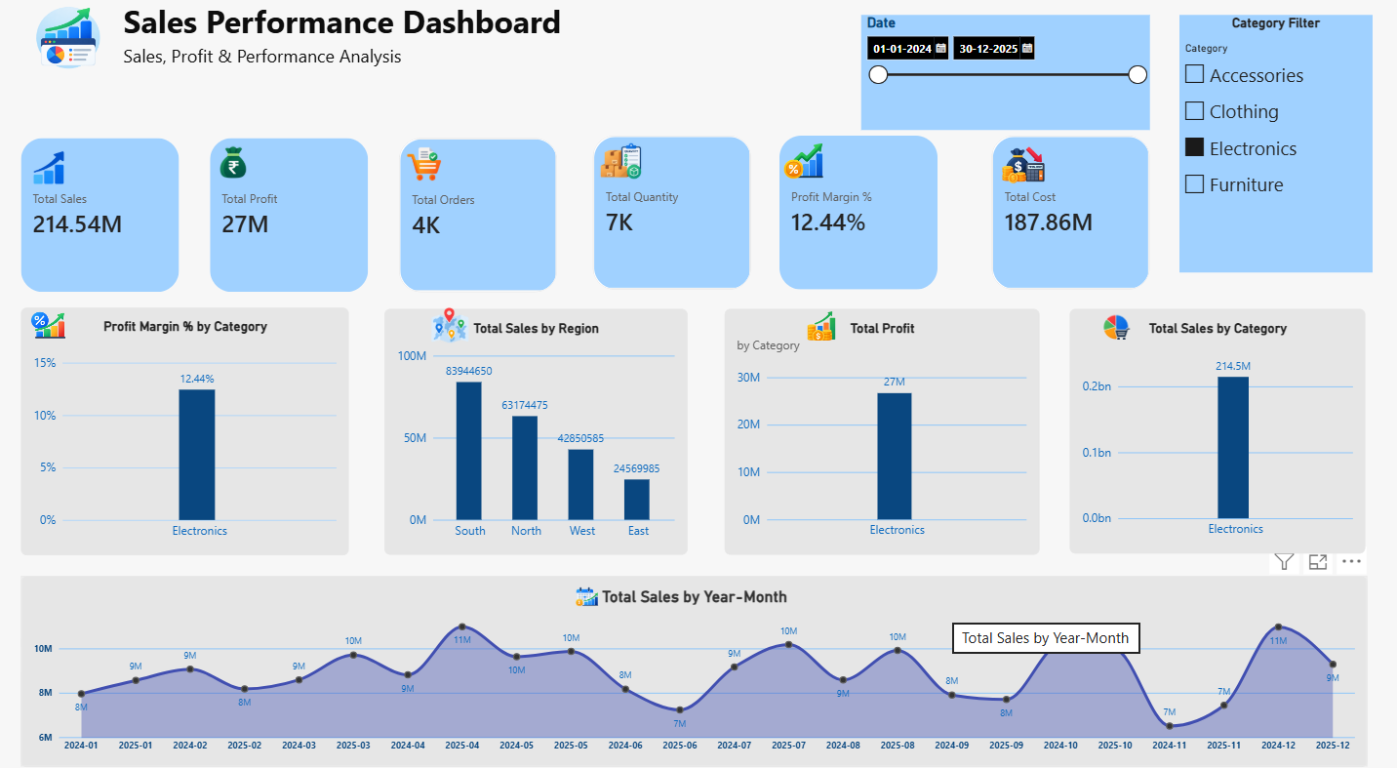
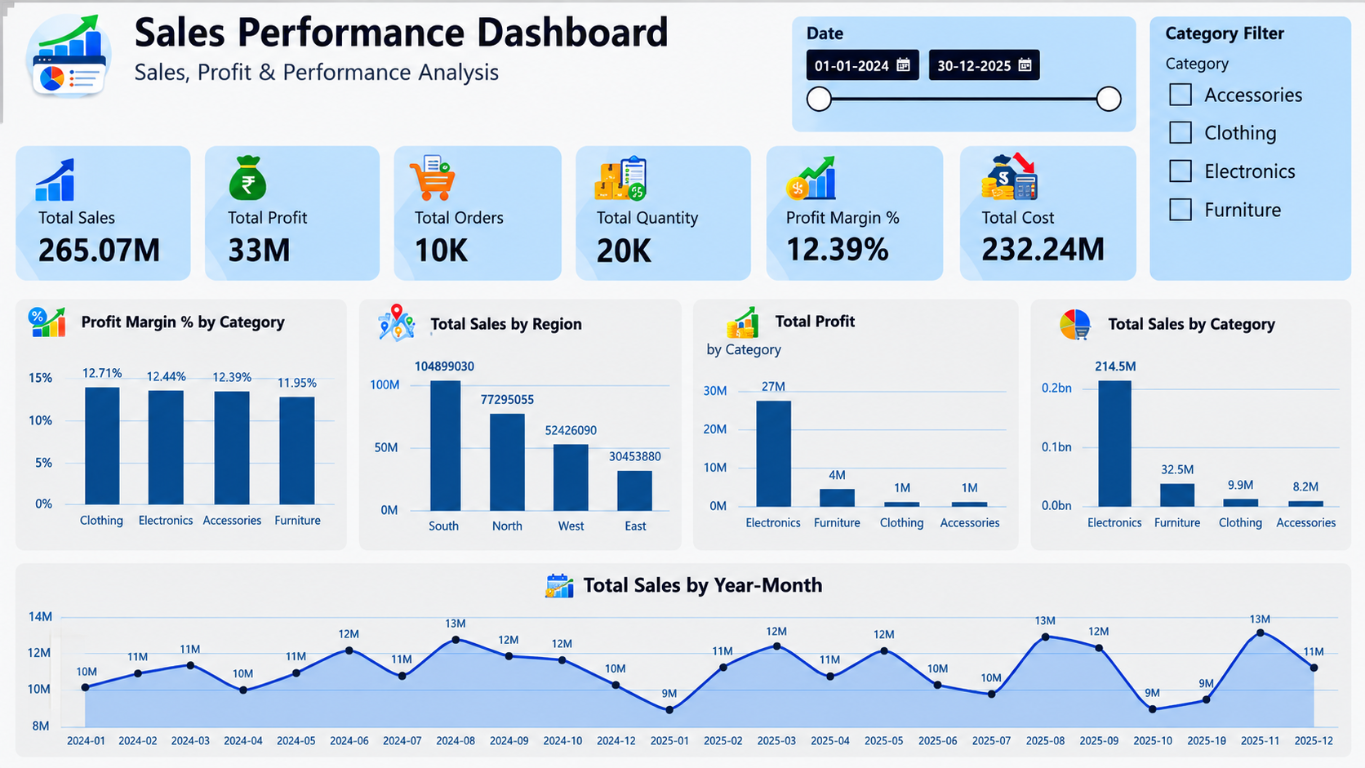
feat: update sales dashboard portfolio card
Use the supplied sales performance screenshot and remove its VIEW action.

diff --git a/src/App.tsx b/src/App.tsx
@@ -41,9 +41,8 @@ const PROJECTS_DATA: Project[] = [
     description: 'Built an interactive Power BI dashboard to track sales, profit, orders, quantity, cost and profit margin across 2024–2025. Performed data transformation, modeling and created DAX measures with slicers and drill-through analysis.',
     hasGithub: false,
     githubUrl: 'https://github.com/ajay3554/Ecommerce-Sales-Analytics',
-    showViewButton: true,
+    showViewButton: false,
     primaryActionText: 'VIEW',
-    externalUrl: 'https://github.com/ajay3554/Ecommerce-Sales-Analytics',
     highlights: [
       'Tracks $214.54M total sales and $27M gross profit across 4K orders',
       'Advanced dynamic DAX measures for Year-Over-Year growth & profit margins (12.44%)',
